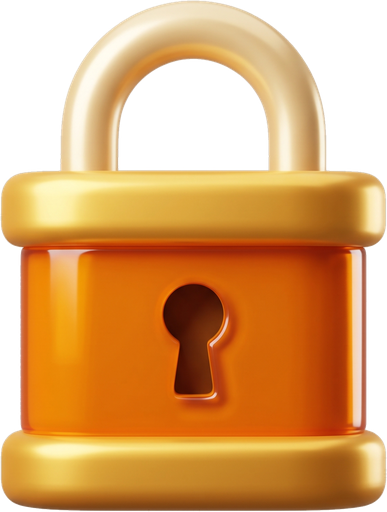
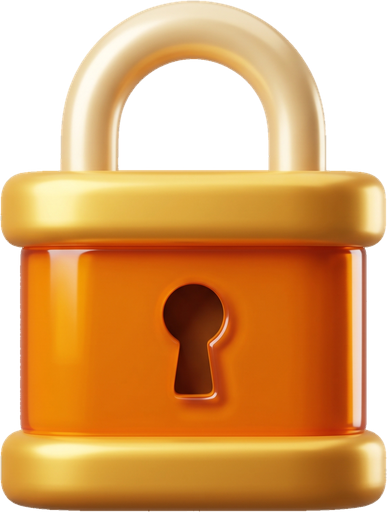
K1: yari saydam kenarlardaki beyaz hale 16 varlikta temizlendi
Matlama alfayi dogru cikariyor ama kenar piksellerinde orijinalde
pisirilmis acik zeminin rengi kaliyor; koyu zeminde acik gri bir hale
olarak gorunuyor. Kenar SILINMIYOR: alfa korunup RGB en yakin opak
komsudan yayiliyor. collection_book'ta beyaza yakin kenar orani
%12.4 -> %3.3.

Butun Art/UI ayni olcutle tarandi; 20 varlikta ayni kusur bulundu,
kullanimda olan 16'si duzeltildi. logo_*.png disarida birakildi.

Changed region(s): [[0.9922, 0.9375, 1.0, 0.9688]]

diff --git a/docs/APK-BULGULARI-6.md b/docs/APK-BULGULARI-6.md
@@ -541,7 +541,7 @@ varlık kullanmak serbest.
 
 # KOLEKSİYON
 
-- [ ] **K1.** Görselin **dış kısımlarında beyazlıklar** var; kötü görünüyor,
+- [x] **K1.** Görselin **dış kısımlarında beyazlıklar** var; kötü görünüyor,
       **kesilmiş gibi** duruyor. Düzeltilecek.
       > *"koleksiyon kısmında zaten çok bir şey yok ama görselin dış
       > kısımlarından beyazlıklar var, o da kötü gözüküyor, çok kesilmiş
@@ -550,6 +550,28 @@ varlık kullanmak serbest.
       Not: bu, `collection_book.png`'in matlanmasından kalan hâle olabilir —
       hafızadaki "saydamlık doğrulama tuzağı" (koyu zeminde bak, damalıda
       değil) burada birebir geçerli.
+
+      > **YAPILDI (14. tur) — ve tahmin doğruydu.** Matlama alfayı doğru
+      > çıkarıyor ama yarı saydam kenar piksellerinde ORİJİNALDE pişirilmiş
+      > açık zeminin rengi kalıyor; koyu bir zeminde o kalıntı açık gri bir
+      > hale olarak görülüyor. `collection_book.png`in yumuşak kenarında
+      > beyaza yakın piksel oranı **%12,4**'tü.
+      >
+      > Çözüm kenarı SİLMEK değil, kenarın RENGİNİ içerden doldurmak: alfa
+      > aynen korunuyor (silüet bozulmuyor), yalnız RGB en yakın OPAK
+      > komşudan yayılıyor. Sonra oran **%3,3**.
+      >
+      > Bütün `Art/UI` klasörü aynı ölçütle tarandı (kenar ortalaması içten
+      > 12 birimden fazla açıksa VE beyaza yakın oran %6'yı geçiyorsa) ve 20
+      > varlıkta aynı kusur bulundu. Kullanımda olan 16'sı düzeltildi:
+      > `collection_book`, `avatar_2..9`, `icon_lock`, `region_1..4`,
+      > `podium_gold/silver/bronze`, `frame_board`. (Kalan dördü —
+      > `frame_avatar`, `btn_square`, `bar_tabs`, `card_tab` — bu turda
+      > prosedürel görsellerle değiştirildiği için artık kullanılmıyor.)
+      > `logo_*.png` taramanın dışında bırakıldı.
+      >
+      > Yan fayda: L1a'nın avatar çerçeveleri ve L1b'nin kürsüleri de aynı
+      > düzeltmeyi aldı.
 
 ---
 

diff --git a/docs/DEVAM.md b/docs/DEVAM.md
@@ -7023,3 +7023,28 @@ sayıyordu. Ekranda ölçtüğün rengin ARKA PLANDA da bulunup bulunmadığına
 doygunluk eşiğini daraltmak (G>190) gerçek sayıyı verdi. Bu, "ölçüm görselle
 çelişirse göze güven" kuralının bir örneği daha: gözle düğme ekranın yarısı
 kadardı, ölçüm %82,5 diyordu; haklı olan gözdü.
+
+### K1 — "dış kısımlarda beyazlıklar": hale, kenarın RENGİNDE
+Matlama alfayı doğru çıkarıyor ama yarı saydam kenar piksellerinde
+ORİJİNALDE pişirilmiş açık zeminin rengi kalıyor. Koyu zeminde o kalıntı
+açık gri bir hale olarak görülüyor — kullanıcının "kesilmiş gibi duruyor"
+dediği şey bu.
+
+Çözüm kenarı silmek DEĞİL, kenarın RENGİNİ içerden doldurmak: alfa aynen
+korunuyor (silüet bozulmuyor), yalnız RGB en yakın opak komşudan dalga
+dalga yayılıyor. `collection_book`ta beyaza yakın kenar oranı %12,4 -> %3,3.
+
+Bütün `Art/UI` aynı ölçütle tarandı (kenar ortalaması içten 12 birimden
+fazla açık VE beyaza yakın oran > %6): 20 varlıkta aynı kusur. Kullanımda
+olan 16'sı düzeltildi. `logo_*.png` taramanın dışında.
+
+**Ders (bir kusuru bulunca AYNI ÖLÇÜTLE hepsini tara):** Kullanıcı yalnız
+koleksiyon ekranını söylemişti. Aynı matlama akışından geçen her varlıkta
+aynı kusur vardı — sıralama avatarları, kürsüler, yolculuk bölgeleri, hatta
+oyun tahtasının çerçevesi. Tek tek şikâyet gelmesini beklemek, aynı işi on
+altı kez yapmak demekti.
+
+**Ders (bir ölçütün YANLIŞ POZİTİFİ de bilgidir):** `avatar_2` düzeltmeden
+sonra da %20,5 "beyaza yakın kenar" veriyor. Sebep: o avatarın ayaklarının
+altında GERÇEKTEN beyaz bir kar zemini var. Ölçüt kusuru değil içeriği
+gösteriyor; sayıyı kovalayıp kar zeminini silmek olurdu.
